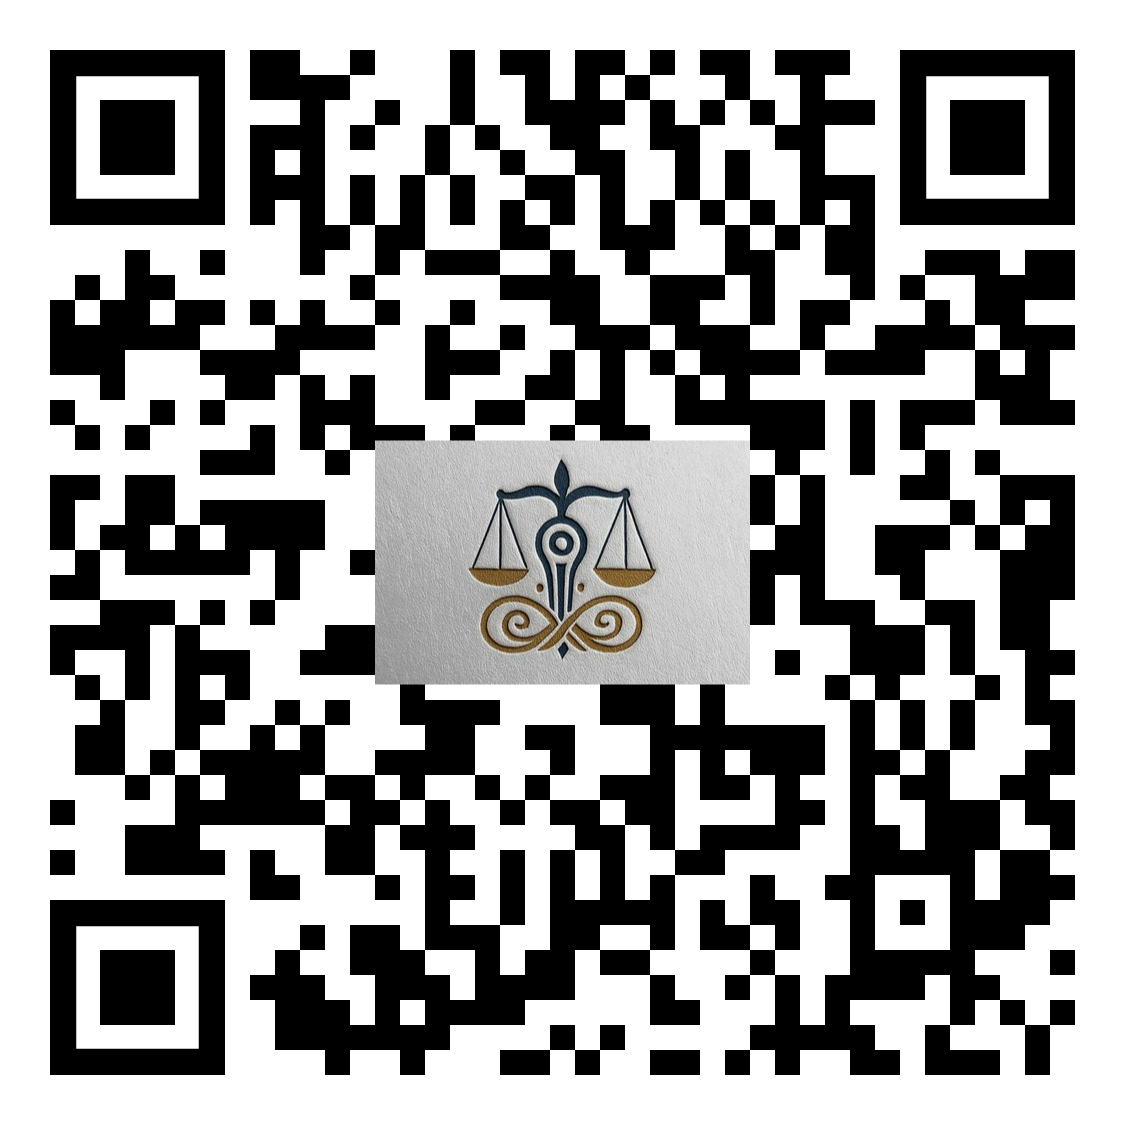
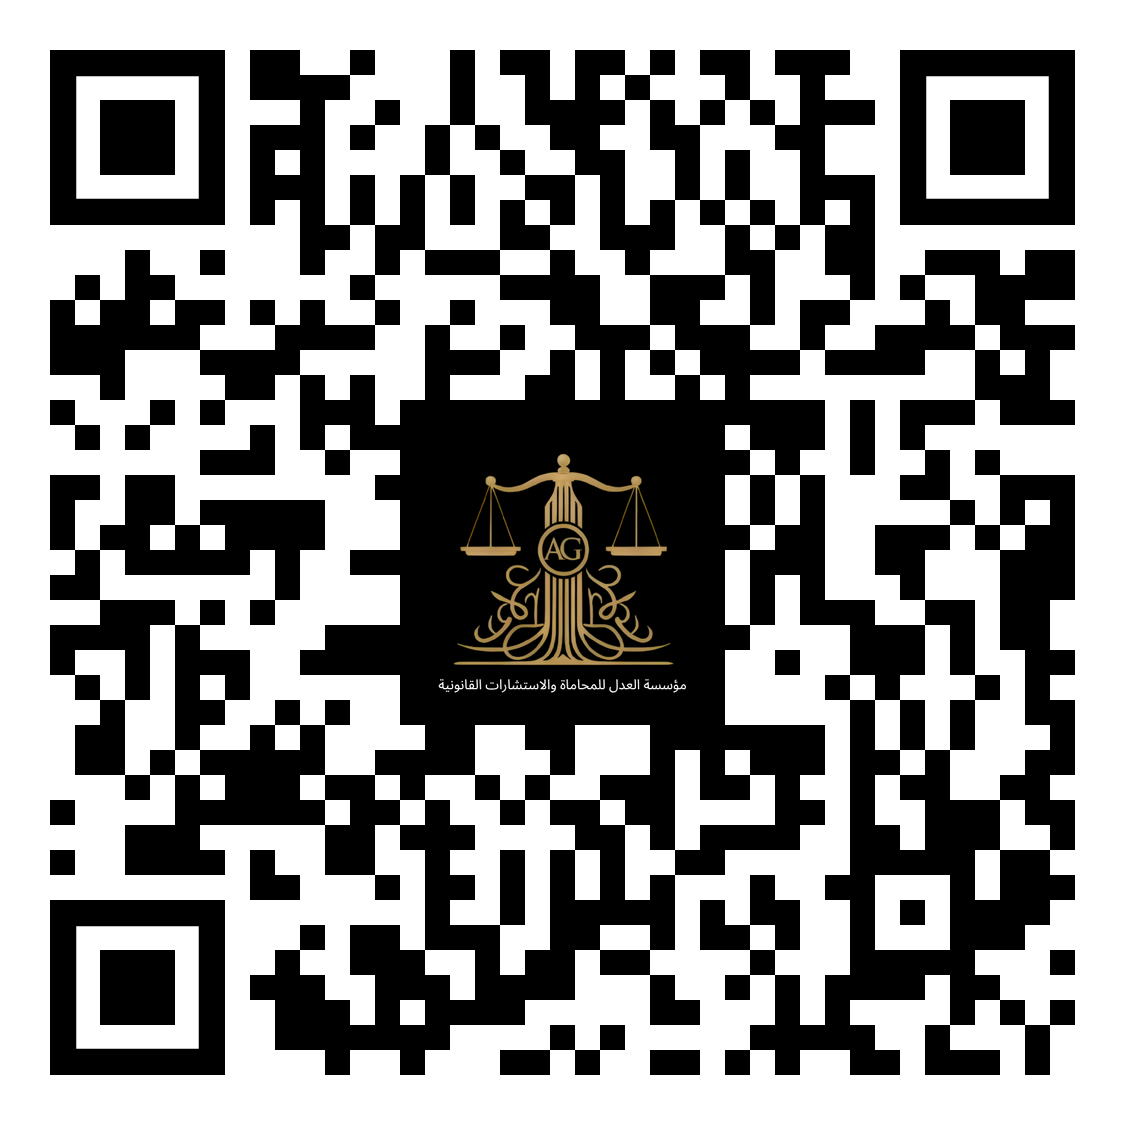
upload 2

Changed region(s): [[0.3111, 0.3422, 0.6844, 0.6533]]

diff --git a/index.html b/index.html
@@ -23,7 +23,7 @@
     <link href="https://fonts.googleapis.com/css2?family=Cairo:wght@200..1000&display=swap" rel="stylesheet">
 
     <!-- Favicon -->
-    <link rel="icon" type="image/x-icon" href="./img/logo.png" />
+    <link rel="icon" type="image/x-icon" href="./img/newest-logo.png" />
 
     <!-- Styles -->
     <link href="./css/style.css" rel="stylesheet" />
@@ -40,7 +40,7 @@
                 <div class="container">
                     <div class="header-content">
                         <div class="logo-container">
-                            <a href="./index.html"><img class="logo-image" src="./img/new-logo.png"
+                            <a href="./index.html"><img class="logo-image" src="./img/newest-logo.png"
                                     alt="Al-Adl Foundation Logo" /></a>
                             <h2 class="logo-text">مؤسسة العدل للمحاماة والاستشارات القانونية</h2>
                         </div>
@@ -181,7 +181,7 @@
                         <div class="footer-grid">
                             <div class="footer-brand">
                                 <div class="footer-logo">
-                                    <img src="./img/new-logo.png" alt="Al-Adl Foundation Logo" />
+                                    <img src="./img/newest-logo.png" alt="Al-Adl Foundation Logo" />
                                     <h2>مؤسسة العدل</h2>
                                 </div>
                                 <p class="footer-description">مؤسسة قانونية متخصصة في تقديم الاستشارات والخدمات

diff --git a/services_page/services.html b/services_page/services.html
@@ -23,7 +23,7 @@
     <link href="https://fonts.googleapis.com/css2?family=Cairo:wght@200..1000&display=swap" rel="stylesheet">
 
     <!-- Favicon -->
-    <link rel="icon" type="image/x-icon" href="../img/logo.png" />
+    <link rel="icon" type="image/x-icon" href="./img/newest-logo.png" />
 
     <!-- Styles -->
     <link href="./services.css" rel="stylesheet" />
@@ -39,7 +39,7 @@
             <div class="container">
                 <div class="header-content">
                     <div class="logo-container">
-                        <a href="../index.html"><img class="logo-image" src="../img/new-logo.png"
+                        <a href="../index.html"><img class="logo-image" src="../img/newest-logo.png"
                                 alt="Al-Adl Foundation Logo" /></a>
                         <h2 class="logo-text">مؤسسة العدل للمحاماة والاستشارات القانونية</h2>
                     </div>
@@ -91,7 +91,7 @@
                     <div class="footer-grid">
                         <div class="footer-brand">
                             <div class="footer-logo">
-                                <img src="../img/new-logo.png" alt="Al-Adl Foundation Logo" />
+                                <img src="../img/newest-logo.png" alt="Al-Adl Foundation Logo" />
                                 <h2>مؤسسة العدل</h2>
                             </div>
                             <p class="footer-description">مؤسسة قانونية متخصصة في تقديم الاستشارات والخدمات
